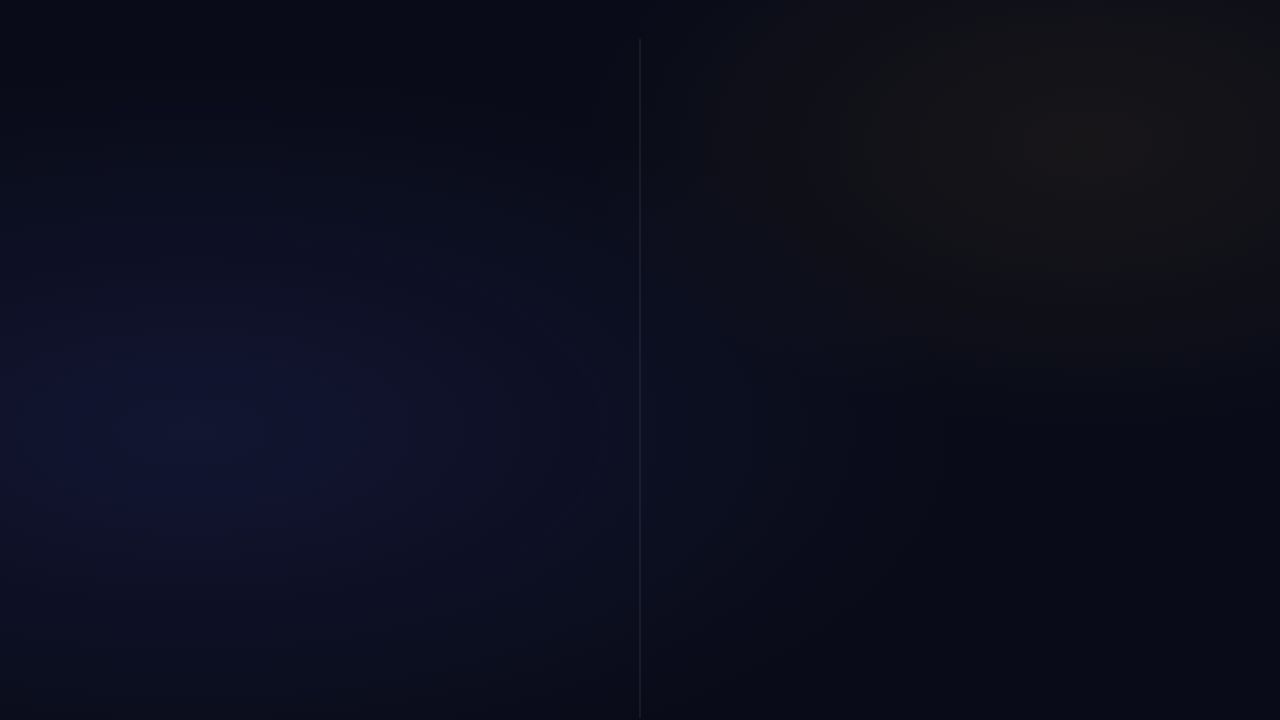
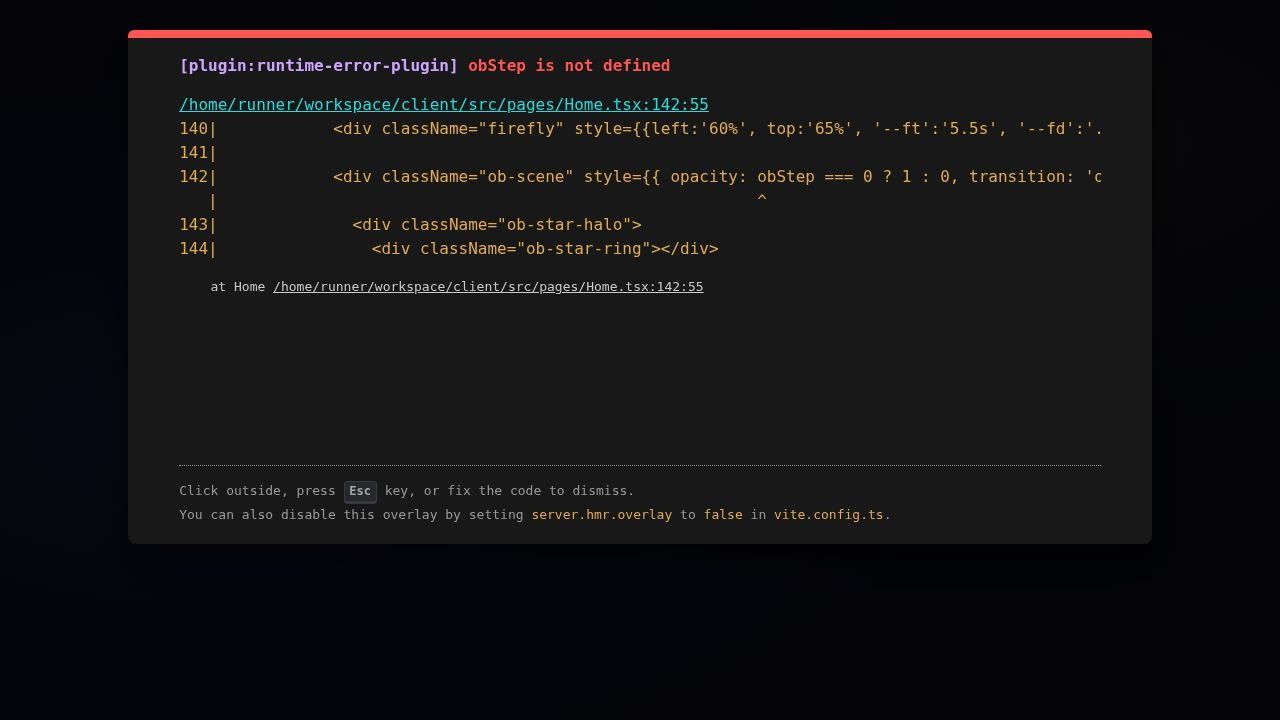
Implement interactive onboarding slides with smooth transitions
Update client/src/pages/Home.tsx and add patch_onboarding.cjs/patch_onboarding2.cjs to manage onboarding state and display, enabling users to navigate through three distinct onboarding slides with opacity transitions and pointer event control.

Replit-Commit-Author: Agent
Replit-Commit-Session-Id: 120e0f99-c465-47a3-a7cc-f2273cfd3546
Replit-Commit-Checkpoint-Type: full_checkpoint
Replit-Commit-Event-Id: 582d3212-4fe9-4902-acaf-2a6c003089d5
Replit-Commit-Screenshot-Url: https://storage.googleapis.com/screenshot-production-us-central1/89aa1bfa-cdbf-4287-a803-1068c593ff52/120e0f99-c465-47a3-a7cc-f2273cfd3546/kLyhVLH
Replit-Helium-Checkpoint-Created: true

diff --git a/client/src/pages/Home.tsx b/client/src/pages/Home.tsx
@@ -138,7 +138,8 @@ export default function Home() {
           <div className="firefly" style={{left:'75%', top:'55%', '--ft':'6s', '--fd':'1.2s', '--fx':'-20px', '--fy':'-40px', '--fx2':'-40px', '--fy2':'15px'} as any}></div>
           <div className="firefly" style={{left:'40%', top:'70%', '--ft':'8s', '--fd':'2.5s', '--fx':'40px', '--fy':'-30px', '--fx2':'10px', '--fy2':'20px'} as any}></div>
           <div className="firefly" style={{left:'60%', top:'65%', '--ft':'5.5s', '--fd':'.8s', '--fx':'-30px', '--fy':'-45px', '--fx2':'-50px', '--fy2':'5px'} as any}></div>
-          <div className="ob-scene">
+          
+          <div className="ob-scene" style={{ opacity: obStep === 0 ? 1 : 0, transition: 'opacity 0.4s ease', pointerEvents: obStep === 0 ? 'auto' : 'none', position: 'absolute', bottom: 'clamp(28px,5dvh,50px)', left: '50%', transform: 'translateX(-50%)', display: 'flex', flexDirection: 'column', alignItems: 'center', zIndex: 4 }}>
             <div className="ob-star-halo">
               <div className="ob-star-ring"></div>
               <div className="ob-star-ring2"></div>
@@ -147,6 +148,27 @@ export default function Home() {
             <div className="ob-robot-glow"></div>
             <div className="ob-robot-wrap">🤖</div>
           </div>
+
+          <div className="ob-scene" style={{ opacity: obStep === 1 ? 1 : 0, transition: 'opacity 0.4s ease', pointerEvents: obStep === 1 ? 'auto' : 'none', position: 'absolute', bottom: 'clamp(28px,5dvh,50px)', left: '50%', transform: 'translateX(-50%)', display: 'flex', flexDirection: 'column', alignItems: 'center', zIndex: 4 }}>
+            <div className="ob-star-halo" style={{ background: 'radial-gradient(circle,rgba(85,97,232,0.9),rgba(85,97,232,0.4) 40%,transparent 70%)', filter: 'drop-shadow(0 0 16px rgba(85,97,232,0.8))' }}>
+              <div className="ob-star-ring" style={{ borderColor: 'rgba(85,97,232,0.25)' }}></div>
+              <div className="ob-star-ring2" style={{ borderColor: 'rgba(85,97,232,0.12)' }}></div>
+              🎨
+            </div>
+            <div className="ob-robot-glow" style={{ background: 'radial-gradient(ellipse,rgba(85,97,232,0.4),transparent 70%)' }}></div>
+            <div className="ob-robot-wrap">✨</div>
+          </div>
+
+          <div className="ob-scene" style={{ opacity: obStep === 2 ? 1 : 0, transition: 'opacity 0.4s ease', pointerEvents: obStep === 2 ? 'auto' : 'none', position: 'absolute', bottom: 'clamp(28px,5dvh,50px)', left: '50%', transform: 'translateX(-50%)', display: 'flex', flexDirection: 'column', alignItems: 'center', zIndex: 4 }}>
+            <div className="ob-star-halo" style={{ background: 'radial-gradient(circle,rgba(208,64,128,0.9),rgba(208,64,128,0.4) 40%,transparent 70%)', filter: 'drop-shadow(0 0 16px rgba(208,64,128,0.8))' }}>
+              <div className="ob-star-ring" style={{ borderColor: 'rgba(208,64,128,0.25)' }}></div>
+              <div className="ob-star-ring2" style={{ borderColor: 'rgba(208,64,128,0.12)' }}></div>
+              🎧
+            </div>
+            <div className="ob-robot-glow" style={{ background: 'radial-gradient(ellipse,rgba(208,64,128,0.4),transparent 70%)' }}></div>
+            <div className="ob-robot-wrap">📖</div>
+          </div>
+
           <div className="ob-ground-glow"></div>
           <svg className="ob-forest-svg" viewBox="0 0 375 80" fill="none" preserveAspectRatio="none" height="80">
             <path d="M0,80 L0,55 L18,30 L36,55 L36,80 Z" fill="#080b1a"/>
@@ -159,21 +181,51 @@ export default function Home() {
             <path d="M339,80 L339,55 L357,30 L375,55 L375,80 Z" fill="#080b1a"/>
             <path d="M0,80 L375,80 L375,70 L0,70 Z" fill="#0a0c1e"/>
           </svg>
-          <div className="ob-dots"><div className="od on"></div><div className="od"></div><div className="od"></div></div>
-        </div>
-        <div className="ob-body">
-          <div className="ob-eyebrow">Step 1 of 3 <div className="ob-line"></div></div>
-          <div className="ob-h1">Speak your idea.<br/><em>Watch it become a book.</em></div>
-          <div className="ob-p">One sentence is all it takes. StoryForge plans the full arc, generates illustrations, and narrates — all at once.</div>
-          <div className="ob-pills">
-            <div className="ob-pill"><div className="op-dot" style={{background:'var(--amber)'}}></div>Real-time voice</div>
-            <div className="ob-pill"><div className="op-dot" style={{background:'var(--indigo)'}}></div>Illustrations</div>
-            <div className="ob-pill"><div className="op-dot" style={{background:'var(--teal)'}}></div>Live narration</div>
+          <div className="ob-dots">
+            <div className={`od ${obStep === 0 ? 'on' : ''}`} onClick={() => setObStep(0)}></div>
+            <div className={`od ${obStep === 1 ? 'on' : ''}`} onClick={() => setObStep(1)}></div>
+            <div className={`od ${obStep === 2 ? 'on' : ''}`} onClick={() => setObStep(2)}></div>
           </div>
         </div>
+        
+        <div className="ob-body" style={{ position: 'relative' }}>
+          {/* Step 0 Content */}
+          <div style={{ opacity: obStep === 0 ? 1 : 0, transition: 'opacity 0.4s ease', pointerEvents: obStep === 0 ? 'auto' : 'none', position: 'absolute', inset: 'var(--sp-md) var(--sp-lg) 0', display: 'flex', flexDirection: 'column', gap: 'var(--sp-xs)' }}>
+            <div className="ob-eyebrow">Step 1 of 3 <div className="ob-line"></div></div>
+            <div className="ob-h1">Speak your idea.<br/><em>Watch it become a book.</em></div>
+            <div className="ob-p">One sentence is all it takes. StoryForge plans the full arc, generates illustrations, and narrates — all at once.</div>
+            <div className="ob-pills">
+              <div className="ob-pill"><div className="op-dot" style={{background:'var(--amber)'}}></div>Real-time voice</div>
+            </div>
+          </div>
+
+          {/* Step 1 Content */}
+          <div style={{ opacity: obStep === 1 ? 1 : 0, transition: 'opacity 0.4s ease', pointerEvents: obStep === 1 ? 'auto' : 'none', position: 'absolute', inset: 'var(--sp-md) var(--sp-lg) 0', display: 'flex', flexDirection: 'column', gap: 'var(--sp-xs)' }}>
+            <div className="ob-eyebrow">Step 2 of 3 <div className="ob-line"></div></div>
+            <div className="ob-h1">Stunning Art.<br/><em>In your chosen style.</em></div>
+            <div className="ob-p">From delicate watercolours to vibrant pixel art, every page is beautifully illustrated to match your story's mood.</div>
+            <div className="ob-pills">
+              <div className="ob-pill"><div className="op-dot" style={{background:'var(--indigo)'}}></div>Illustrations</div>
+            </div>
+          </div>
+
+          {/* Step 2 Content */}
+          <div style={{ opacity: obStep === 2 ? 1 : 0, transition: 'opacity 0.4s ease', pointerEvents: obStep === 2 ? 'auto' : 'none', position: 'absolute', inset: 'var(--sp-md) var(--sp-lg) 0', display: 'flex', flexDirection: 'column', gap: 'var(--sp-xs)' }}>
+            <div className="ob-eyebrow">Step 3 of 3 <div className="ob-line"></div></div>
+            <div className="ob-h1">Sit back.<br/><em>And listen.</em></div>
+            <div className="ob-p">Warm, dynamic voices bring your characters to life. Share the final interactive book with family and friends.</div>
+            <div className="ob-pills">
+              <div className="ob-pill"><div className="op-dot" style={{background:'var(--teal)'}}></div>Live narration</div>
+            </div>
+          </div>
+        </div>
+        
         <div className="ob-actions">
           <button className="btn-ghost" onClick={() => go('s3')}>Skip</button>
-          <button className="btn-primary" onClick={() => go('s3')}>Next →</button>
+          <button className="btn-primary" onClick={() => {
+            if (obStep < 2) setObStep(obStep + 1);
+            else go('s3');
+          }}>{obStep < 2 ? 'Next →' : 'Get Started →'}</button>
         </div>
       </div>
 
